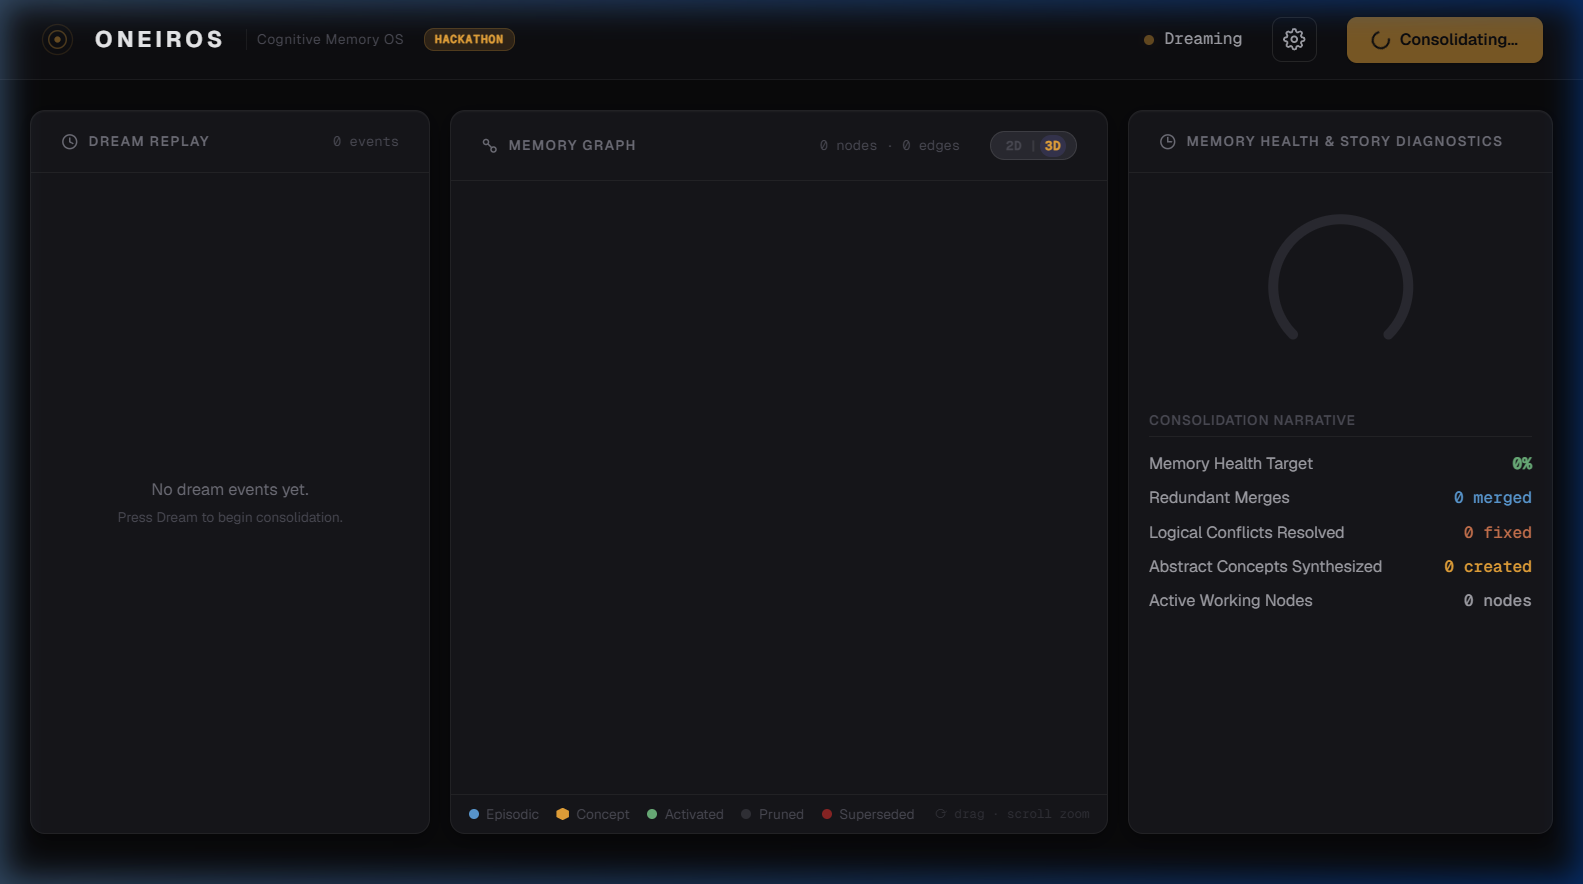
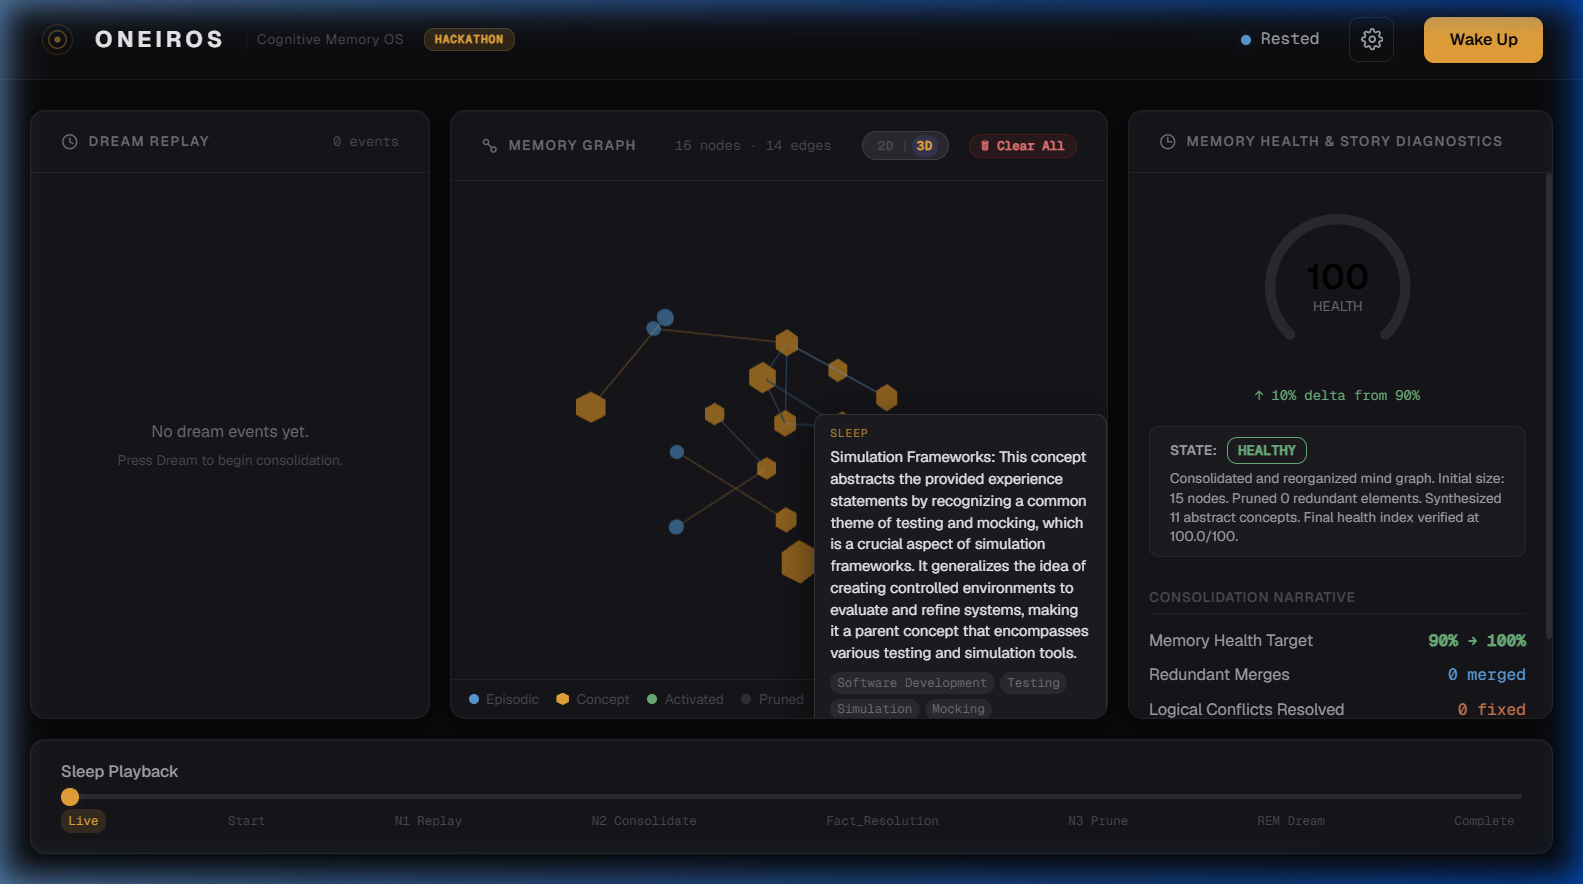
docs: add demo video and screenshot assets to README documentation

diff --git a/README.md b/README.md
@@ -55,6 +55,8 @@ Oneiros brings the human sleep-wake cycle directly to artificial intelligence. I
 
 Oneiros features a high-fidelity dark glassmorphism dashboard built with a real-time WebGL fragment shader background and a Three.js 3D force-directed network viewport.
 
+![Oneiros Interactive Demo](docs/images/Oneiros__Demo_Video.webp)
+
 ### ☀️ Active Ingestion (Awake State)
 The agent interacts with the user, showing live memory node additions in the 3D synaptic space.
 ![Awake State](docs/images/Oneiros__Awake_State_screenshot.png)